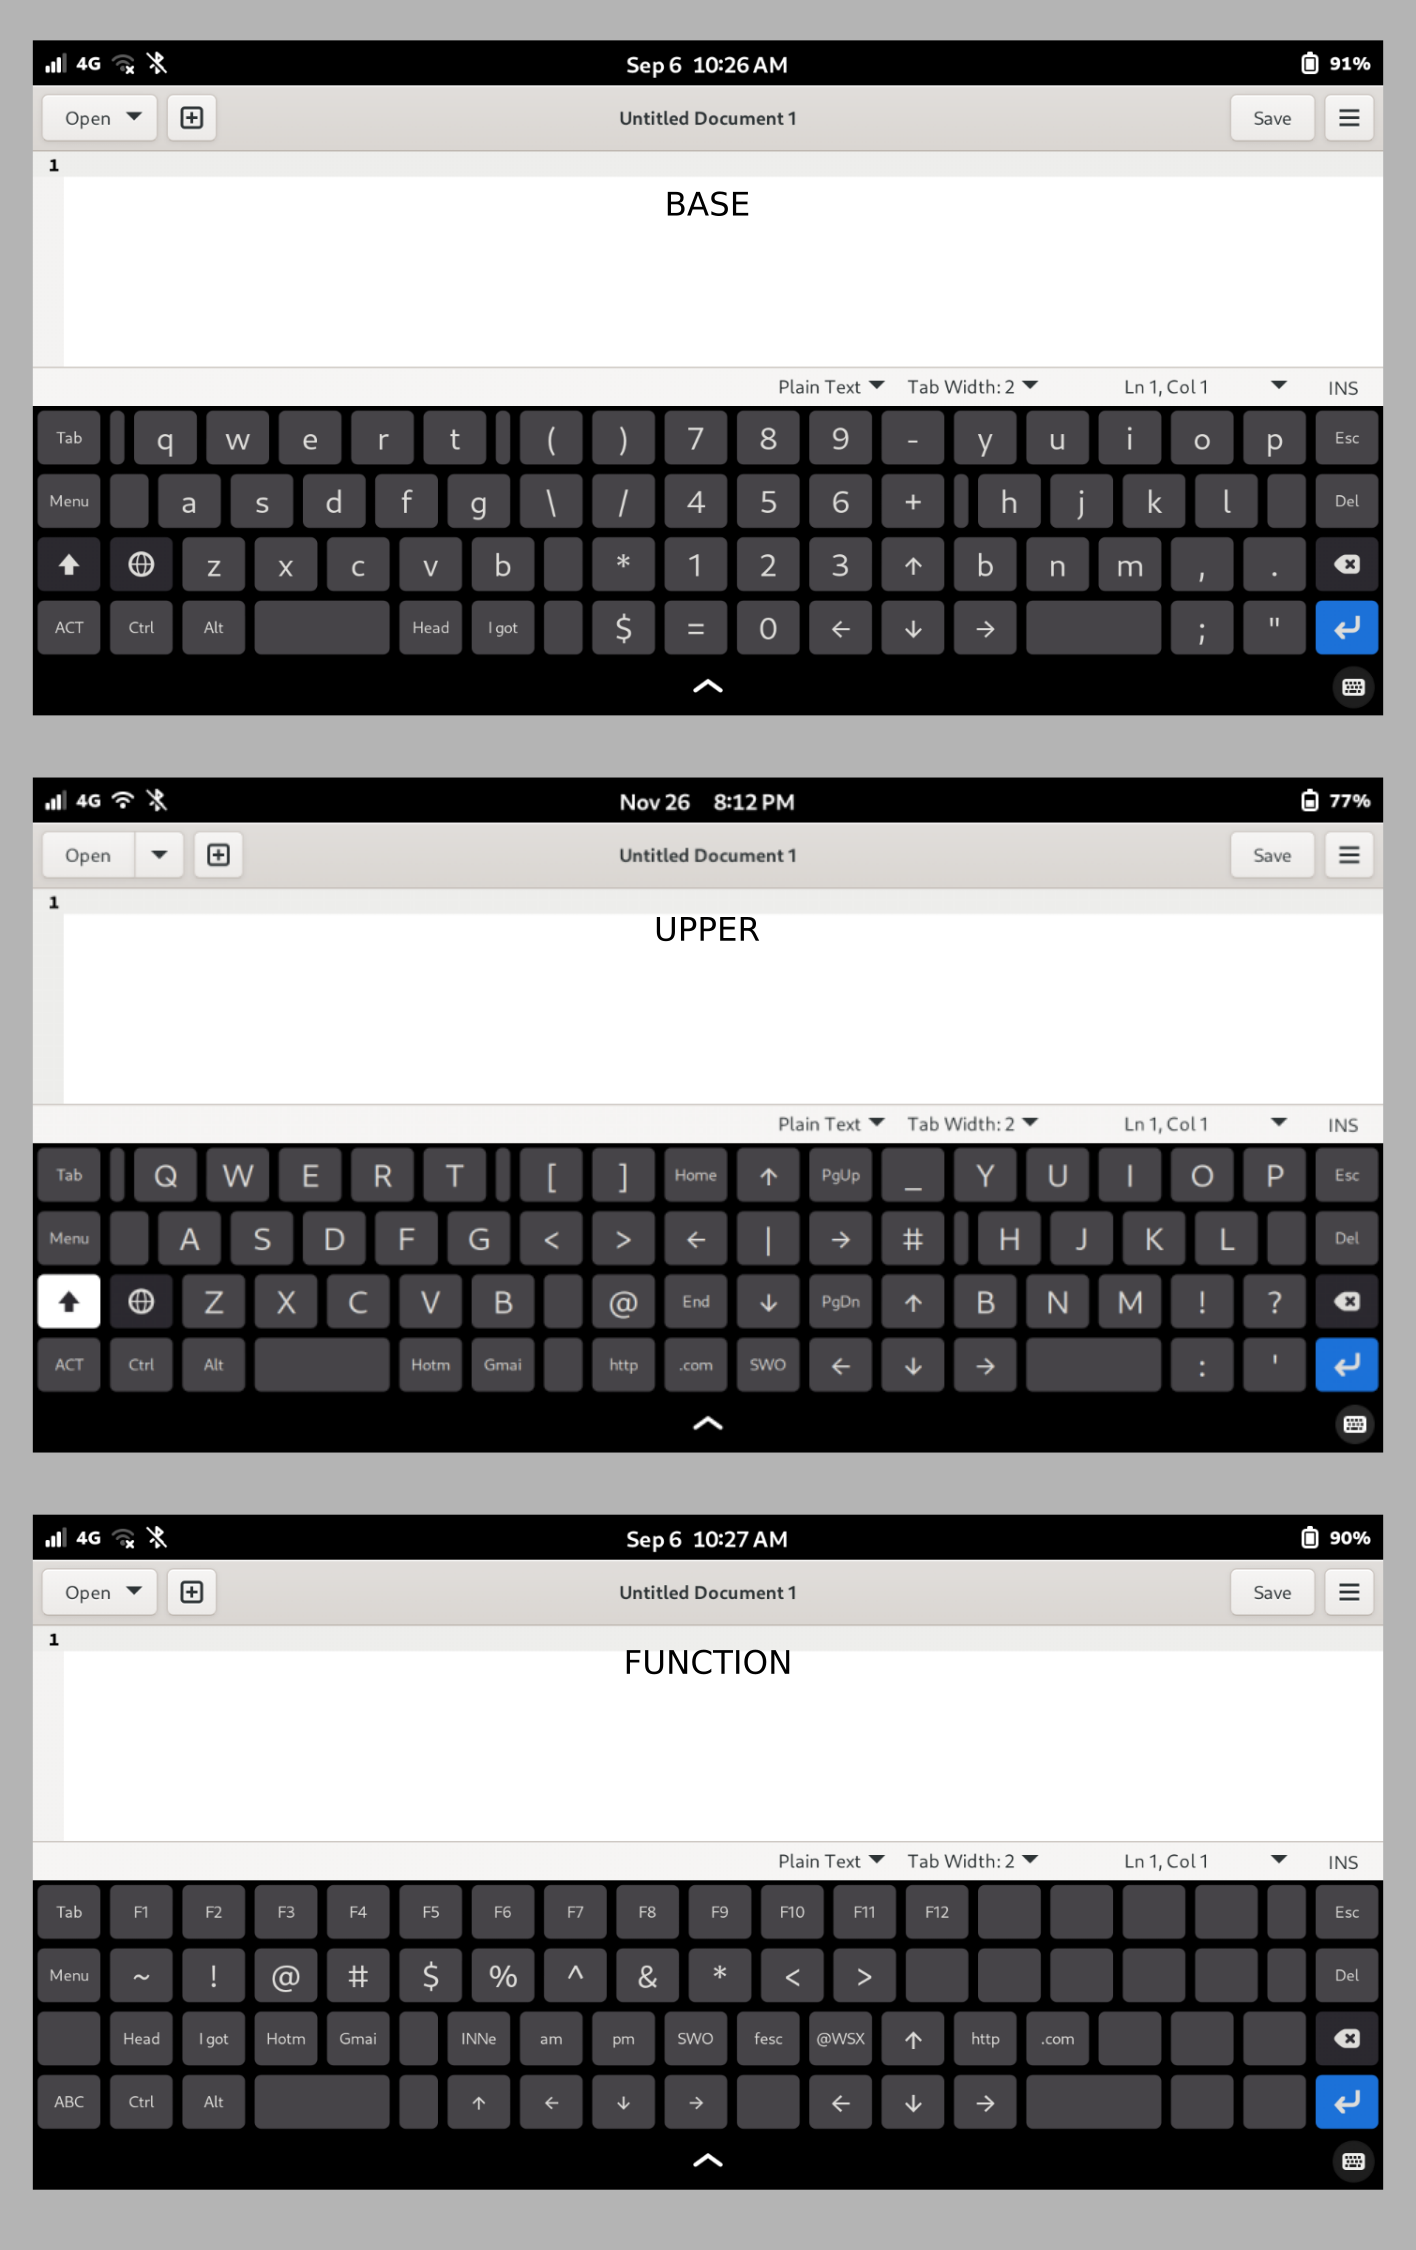
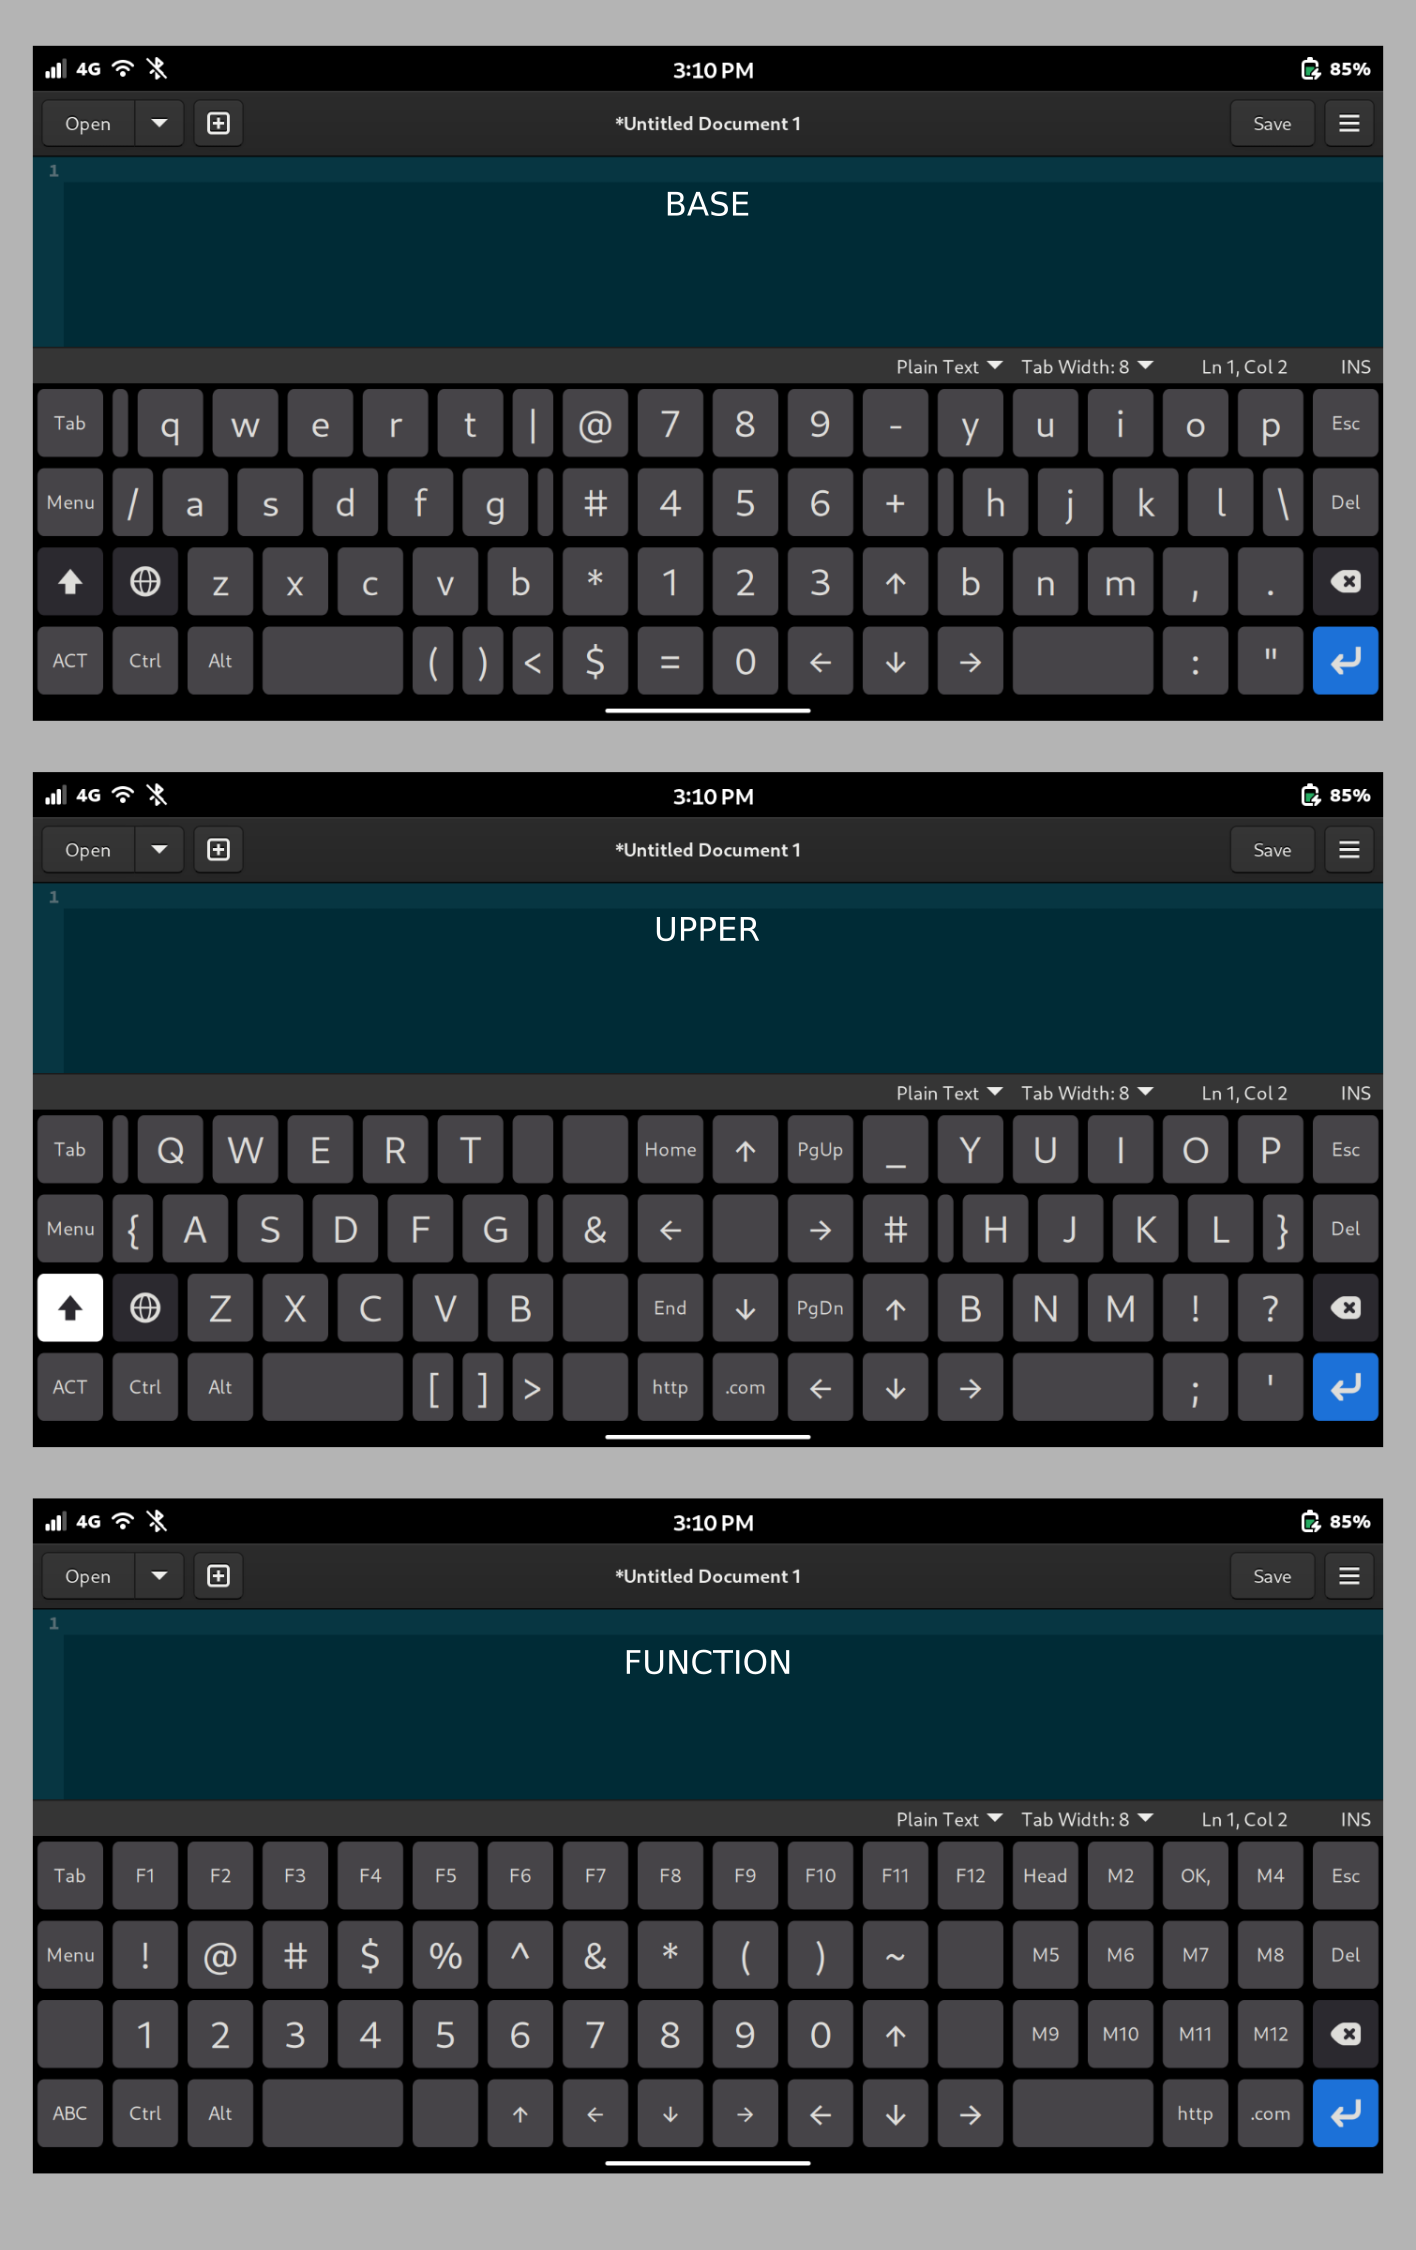
Update keyboards

diff --git a/README.md b/README.md
@@ -1,26 +1,20 @@
 # Phosh-Squeekboard-Keyboard
-Custom Phosh Squeekboard Keyboard Layout that looks like a US english 104 Keyboard layout. This needs to be use added locally because it has quick preset keys for text. 
+Custom Phosh Squeekboard Keyboard Layout that looks like a US English 104 Keyboard layout. This needs to be use added locally because it has quick preset keys for text. 
 
-How to use
---------
+## How to use
+Make the ~/.local/share/squeekboard/keyboards/ directory <br>
+Copy all these files to ~/.local/share/squeekboard/keyboards/  <br>
+File structure should look like: <br>
+~/.local/share/squeekboard/keyboards/us.yaml <br>
+~/.local/share/squeekboard/keyboards/number/us.yaml <br>
+~/.local/share/squeekboard/keyboards/terminal/us.yaml <br>
+From there it should get picked up by squeekboard automatically. <br>
 
-Copy all thse files to ~/.local/share/squeekboard/keyboards/
+Manual inputs <br>
+Open the yaml files up and look for "M4" replace the text and label with your own strings.
 
-File structure should look like:
-
-~/.local/share/squeekboard/keyboards/us.yaml
-
-~/.local/share/squeekboard/keyboards/number/us.yaml
-
-~/.local/share/squeekboard/keyboards/terminal/us.yaml
-
-From there it should get picked up by squeekboard automatically.
-
-Screenshots
---------
-
-![ScreenShot](Keyboard_Portrait.png)
-
+## Screenshots
+![ScreenShot](Keyboard_Portrait.png) <br>
 ![ScreenShot](Keyboard_Landscape.png)
 
 References
